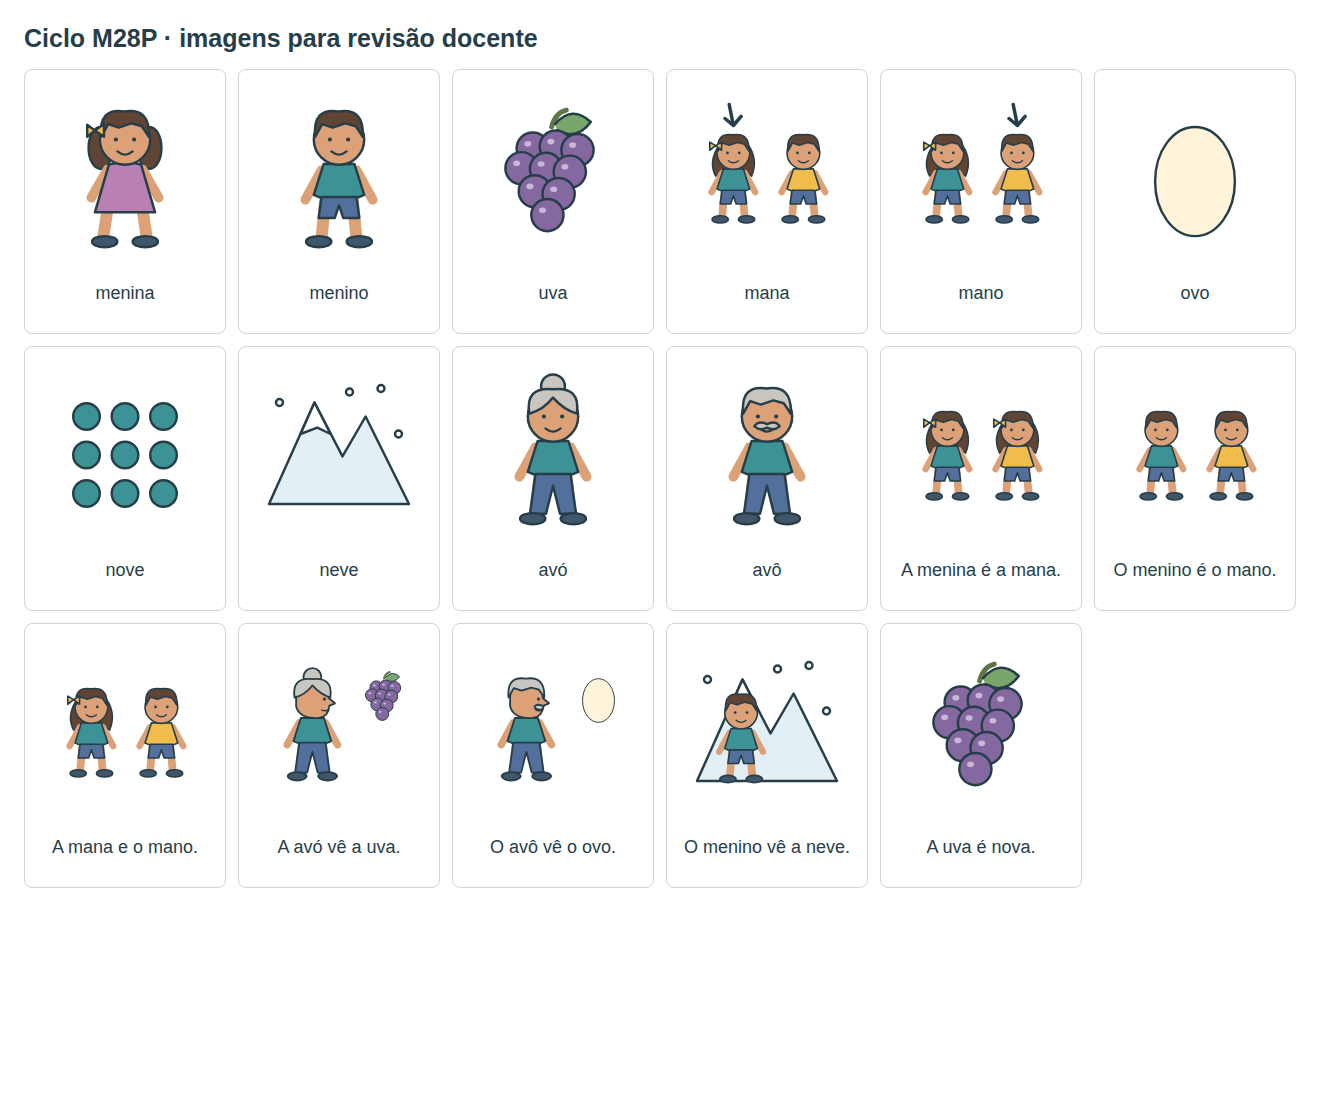
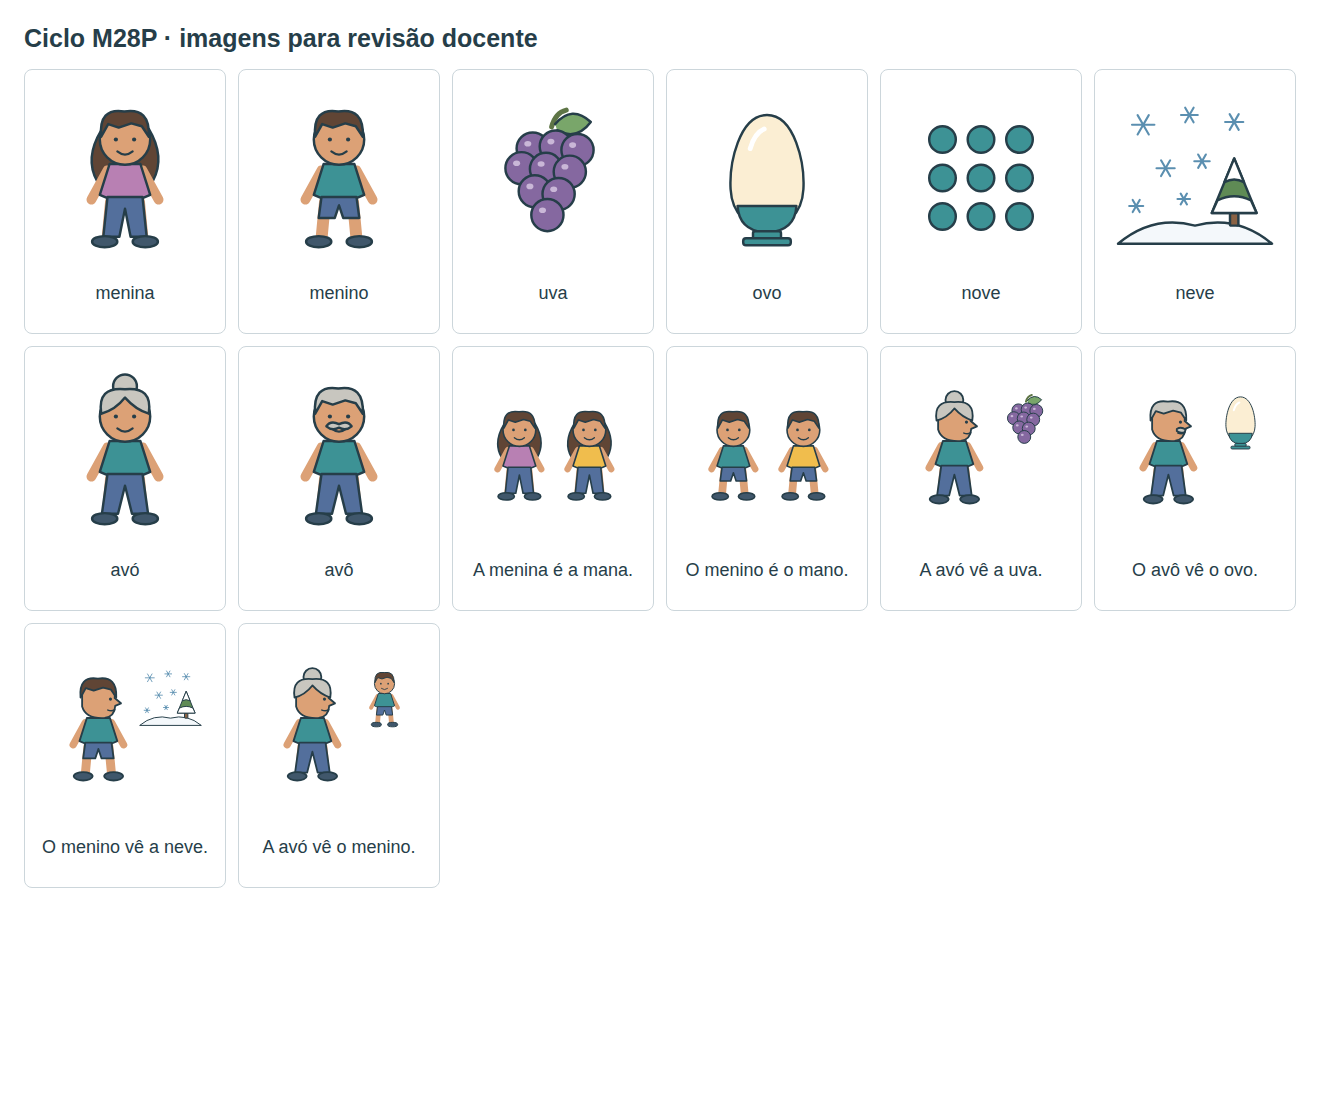
Torna as imagens do ciclo inequívocas e compõe as cenas a partir de cycle.json

diff --git a/scripts/prepare_m28p_tic_assets.py b/scripts/prepare_m28p_tic_assets.py
@@ -12,6 +12,7 @@ import hashlib
 import html
 import json
 import math
+import re
 import xml.etree.ElementTree as ET
 from pathlib import Path
 
@@ -59,6 +60,7 @@ CYCLE = json.loads((ROOT/'drafts/m28p-v3/cycle.json').read_text())
 NEW_WORDS = [(asset_id(w['label']),w['label']) for section in CYCLE['keywords'].values() for w in section['newWords']]
 SENTENCES = [(asset_id(s['text'], True),s['text']) for section in CYCLE['keywords'].values() for s in section['sentences']]
 PICTURABLE = {asset_id(w['label']) for section in CYCLE['keywords'].values() for w in section['newWords'] if w['picturable']}
+SCENES = {asset_id(s['text'], True): s['scene'] for section in CYCLE['keywords'].values() for s in section['sentences']}
 INSTRUCTIONS.update({key:value[1] for key,value in CYCLE_GAMES.items()})
 
 
@@ -94,10 +96,12 @@ def eyes(x, y, distance=26):
 def person(girl):
     drawing = ""
     if girl:
-        drawing += ellipse(85, 77, 17, 30, "#604535") + ellipse(155, 77, 17, 30, "#604535")
-        drawing += path("M99 139 L89 204 M141 139 L151 204", stroke=SKIN, stroke_width=17)
-        drawing += path("M95 108 L72 148 M145 108 L168 148", stroke=SKIN, stroke_width=14)
-        drawing += path("M97 101 Q120 93 143 101 L163 169 L77 169 Z", "#b880b3")
+        # Cabelo comprido; camisola e calças, sem vestido nem laços (sem estereótipo de roupa).
+        drawing += path("M86 52 Q62 92 80 124 L99 108 L141 108 L160 124 Q178 90 154 50 Z", "#604535")
+        drawing += path("M100 154 L95 207 M140 154 L145 207", stroke=SKIN, stroke_width=17)
+        drawing += path("M95 109 L72 151 M145 109 L168 151", stroke=SKIN, stroke_width=14)
+        drawing += path("M98 100 L142 100 L156 144 L140 151 L100 151 L84 144 Z", "#b880b3")
+        drawing += path("M95 147 L145 147 L151 204 L128 204 L120 164 L112 204 L89 204 Z", "#536f9c")
     else:
         drawing += path("M100 154 L95 207 M140 154 L145 207", stroke=SKIN, stroke_width=17)
         drawing += path("M95 109 L72 151 M145 109 L168 151", stroke=SKIN, stroke_width=14)
@@ -107,8 +111,6 @@ def person(girl):
     drawing += path("M86 61 Q82 19 119 25 Q156 19 154 61 L144 46 L129 42 L111 48 L96 43 Z", "#604535")
     drawing += eyes(120, 65) + path("M109 82 Q120 91 131 82", stroke_width=3)
     drawing += ellipse(91, 211, 18, 8, "#40576b") + ellipse(149, 211, 18, 8, "#40576b")
-    if girl:
-        drawing += path("M77 52 L66 44 L66 61 Z M77 52 L90 43 L90 61 Z", GOLD)
     return drawing
 
 
@@ -252,7 +254,7 @@ def generate_images(overwrite):
 def cycle_person(kind, looking=False):
     """Pistas sóbrias exclusivas do ciclo; preserva as figuras neutras v3."""
     gray = '#c8c6bf'
-    drawing = person(False)
+    drawing = person(kind == 'menina')
     # Calças compridas para as pessoas idosas, sem bengalas.
     if kind in ('avó', 'avô'):
         drawing = drawing.replace('#604535', gray)
@@ -285,40 +287,76 @@ def cycle_siblings(left, right):
             cycle_person(right).replace(TEAL,GOLD)+'</g>')
 
 
+PEOPLE = {'menina': 'menina', 'menino': 'menino', 'avo': 'avó', 'avo-circ': 'avô'}
+
+
+def snowflake(x, y, r):
+    arms = ''.join(line(x - r * math.cos(a), y - r * math.sin(a), x + r * math.cos(a), y + r * math.sin(a),
+                        stroke='#5b8fb0', stroke_width=3) for a in (0, math.pi / 3, 2 * math.pi / 3))
+    return arms + circle(x, y, 2.5, '#5b8fb0', stroke='none')
+
+
+def inner_svg(slug, art):
+    if slug in art:
+        return art[slug]
+    source = (DEST / 'images' / f'{slug}.svg').read_text(encoding='utf-8')
+    source = re.sub(r'<title\b[^>]*>.*?</title>', '', source, flags=re.S)
+    return source[source.index('>', source.index('<svg')) + 1:source.rindex('</svg>')]
+
+
+def scene_part(part, art):
+    """Uma figura da cena: pessoas desenhadas aqui (com pose), objetos a partir do SVG da palavra."""
+    slug = part['image']
+    if slug in PEOPLE:
+        drawing = cycle_person(PEOPLE[slug], looking=part.get('pose') == 'looking')
+    else:
+        drawing = inner_svg(slug, art)
+    if part.get('tint') == 'gold':
+        drawing = drawing.replace(TEAL, GOLD).replace('#b880b3', GOLD)
+    return drawing
+
+
+def compose_scene(scene, art):
+    """Sujeito à esquerda, a olhar para a direita; objeto à direita, à altura do olhar.
+    Duas figuras grandes ficam lado a lado (frases do tipo «A menina é a mana.»)."""
+    if len(scene) != 2:
+        raise ValueError('Cada cena tem duas figuras.')
+    left, right = (scene_part(part, art) for part in scene)
+    if scene[1].get('size') == 'large':
+        return (f'<g transform="translate(-6 42) scale(.65)">{left}</g>'
+                f'<g transform="translate(94 42) scale(.65)">{right}</g>')
+    return (f'<g transform="translate(-8 25) scale(.75)">{left}</g>'
+            f'<g transform="translate(137 25) scale(.4)">{right}</g>')
+
+
 def generate_cycle_images(overwrite):
     # Cenas compostas exclusivamente por traços SVG originais da coleção.
     art = drawings()
-    art['ovo'] = ellipse(120,125,57,78,'#fff4d9')
-    art['neve'] = path('M20 190 L85 45 L125 122 L158 65 L220 190 Z','#e2eff5') + path('M65 90 L85 45 L108 90 L89 81 Z','#ffffff') + ''.join(circle(x,y,5,'#ffffff') for x,y in [(35,45),(180,25),(205,90),(135,30)])
+    # Ovo inteiro, com casca e brilho, num oveiro: não se confunde com a letra O, uma pedra ou uma bola.
+    art['ovo'] = (path('M120 30 C80 30 66 100 68 136 C70 172 94 192 120 192 C146 192 170 172 172 136 C174 100 160 30 120 30 Z', '#fbeed3')
+                  + path('M96 78 Q102 56 116 50', stroke='#ffffff', stroke_width=7)
+                  + path('M78 160 L162 160 Q160 196 120 198 Q80 196 78 160 Z', TEAL)
+                  + rect(100, 196, 40, 12, TEAL, rx=3) + rect(86, 206, 68, 10, TEAL, rx=4))
+    # Neve: flocos a cair sobre chão coberto de branco e um pinheiro com neve.
+    art['neve'] = (path('M10 214 Q60 172 120 188 Q180 172 230 214 Z', '#f4f8fb')
+                   + path('M176 92 L208 170 L144 170 Z', '#5f8b55') + rect(170, 170, 12, 18, '#8a6244', rx=2)
+                   + path('M176 92 L190 126 Q176 118 162 126 Z', '#ffffff')
+                   + path('M152 152 Q176 140 200 152 L208 170 L144 170 Z', '#ffffff')
+                   + ''.join(snowflake(x, y, r) for x, y, r in [(46, 44, 16), (112, 30, 12), (176, 40, 13), (78, 106, 13), (130, 96, 11), (36, 160, 10), (104, 150, 9)]))
     art['nove'] = ''.join(circle(65+55*(i%3),65+55*(i//3),19,TEAL) for i in range(9))
     art['avo'] = cycle_person('avó')
     art['avo-circ'] = cycle_person('avô')
-    # O par dá contexto familiar; a seta assinala o referente.
-    siblings = cycle_siblings('mana', 'mano')
-    art['mana'] = siblings + path('M66 15 L72 45 M60 35 L72 45 L83 32',stroke=INK,stroke_width=5)
-    art['mano'] = siblings + path('M166 15 L172 45 M160 35 L172 45 L183 32',stroke=INK,stroke_width=5)
-    for slug,text in SENTENCES:
-        if 'mana' in text and 'mano' in text:
-            art[slug] = siblings
-        elif 'mana' in text:
-            art[slug] = cycle_siblings('mana', 'mana')
-        elif 'mano' in text:
-            art[slug] = cycle_siblings('mano', 'mano')
-        elif 'neve' in text:
-            art[slug]=art['neve']+'<g transform="translate(5 50) scale(.65)">'+person(False)+'</g>'
-        elif 'avó' in text or 'avô' in text:
-            obj=art['uva'] if 'uva' in text else art['ovo']
-            elder=cycle_person('avó' if 'avó' in text else 'avô', looking=True)
-            art[slug]='<g transform="translate(-8 25) scale(.75)">'+elder+'</g><g transform="translate(137 25) scale(.4)">'+obj+'</g>'
-        else:
-            art[slug]=art['uva']
-    for slug,text in NEW_WORDS+SENTENCES:
-        if slug not in PICTURABLE and not slug.startswith('frase-'):
-            continue
-        if slug not in art:
+    for slug, text in NEW_WORDS:
+        if slug in PICTURABLE and slug not in art and not (DEST / 'images' / f'{slug}.svg').is_file():
             raise ValueError(f'Falta uma ilustração original para {text}')
-        svg=f'<svg xmlns="http://www.w3.org/2000/svg" viewBox="0 0 240 240"><title>{html.escape(text)}</title><g stroke="{INK}" stroke-width="3.5" stroke-linecap="round" stroke-linejoin="round">{art[slug]}</g></svg>\n'
-        write_if_needed(DEST/'images'/f'{slug}.svg',svg,overwrite)
+    for slug, text in NEW_WORDS:
+        if slug in PICTURABLE and slug in art:
+            svg = f'<svg xmlns="http://www.w3.org/2000/svg" viewBox="0 0 240 240"><title>{html.escape(text)}</title><g stroke="{INK}" stroke-width="3.5" stroke-linecap="round" stroke-linejoin="round">{art[slug]}</g></svg>\n'
+            write_if_needed(DEST/'images'/f'{slug}.svg', svg, overwrite)
+    for slug, text in SENTENCES:
+        scene = compose_scene(SCENES[slug], art)
+        svg = f'<svg xmlns="http://www.w3.org/2000/svg" viewBox="0 0 240 240"><title>{html.escape(text)}</title><g stroke="{INK}" stroke-width="3.5" stroke-linecap="round" stroke-linejoin="round">{scene}</g></svg>\n'
+        write_if_needed(DEST/'images'/f'{slug}.svg', svg, overwrite)
 
 
 async def generate_audio(overwrite):
@@ -353,7 +391,7 @@ def generate_manifest():
             files[str(path_.relative_to(DEST))] = {"bytes": path_.stat().st_size, "sha256": hashlib.sha256(path_.read_bytes()).hexdigest()}
     manifest = {
         "version": 1,
-        "illustrations": {"author": "PageCraft, ilustrações SVG originais criadas com assistência Codex", "license": "CC0-1.0", "viewBox": "0 0 240 240", "notes": "Sem texto visível nem emoji; os títulos SVG são alternativas acessíveis. A seta no telhado assinala a parte da casa."},
+        "illustrations": {"author": "PageCraft, ilustrações SVG originais criadas com assistência Codex", "license": "CC0-1.0", "viewBox": "0 0 240 240", "notes": "Sem texto visível nem emoji; os títulos SVG são alternativas acessíveis, retirados ao incorporar nos jogos (o nome acessível vem do jogo). A seta no telhado assinala a parte da casa. As cenas das frases compõem as figuras indicadas em cycle.json."},
         "audio": {"provider": "Microsoft Edge Read Aloud, através de edge-tts", "voice": VOICE, "locale": "pt-PT", "rate": RATE, "license": "Voz sintética Microsoft; sujeita aos termos do serviço, não abrangida pela licença CC0 dos SVG.", "notes": "Palavras inteiras e instruções. Não usar estes sons para modelar fonemas ou sílabas isoladas. Reprodução só após opção da criança.", "transcripts": recordings},
         "words": assets,
         "cycle": [{"slug":slug,"text":text,"audio":f"audio/{slug}.mp3", "image":f"images/{slug}.svg" if slug in PICTURABLE or slug.startswith("frase-") else None} for slug,text in NEW_WORDS+SENTENCES],
